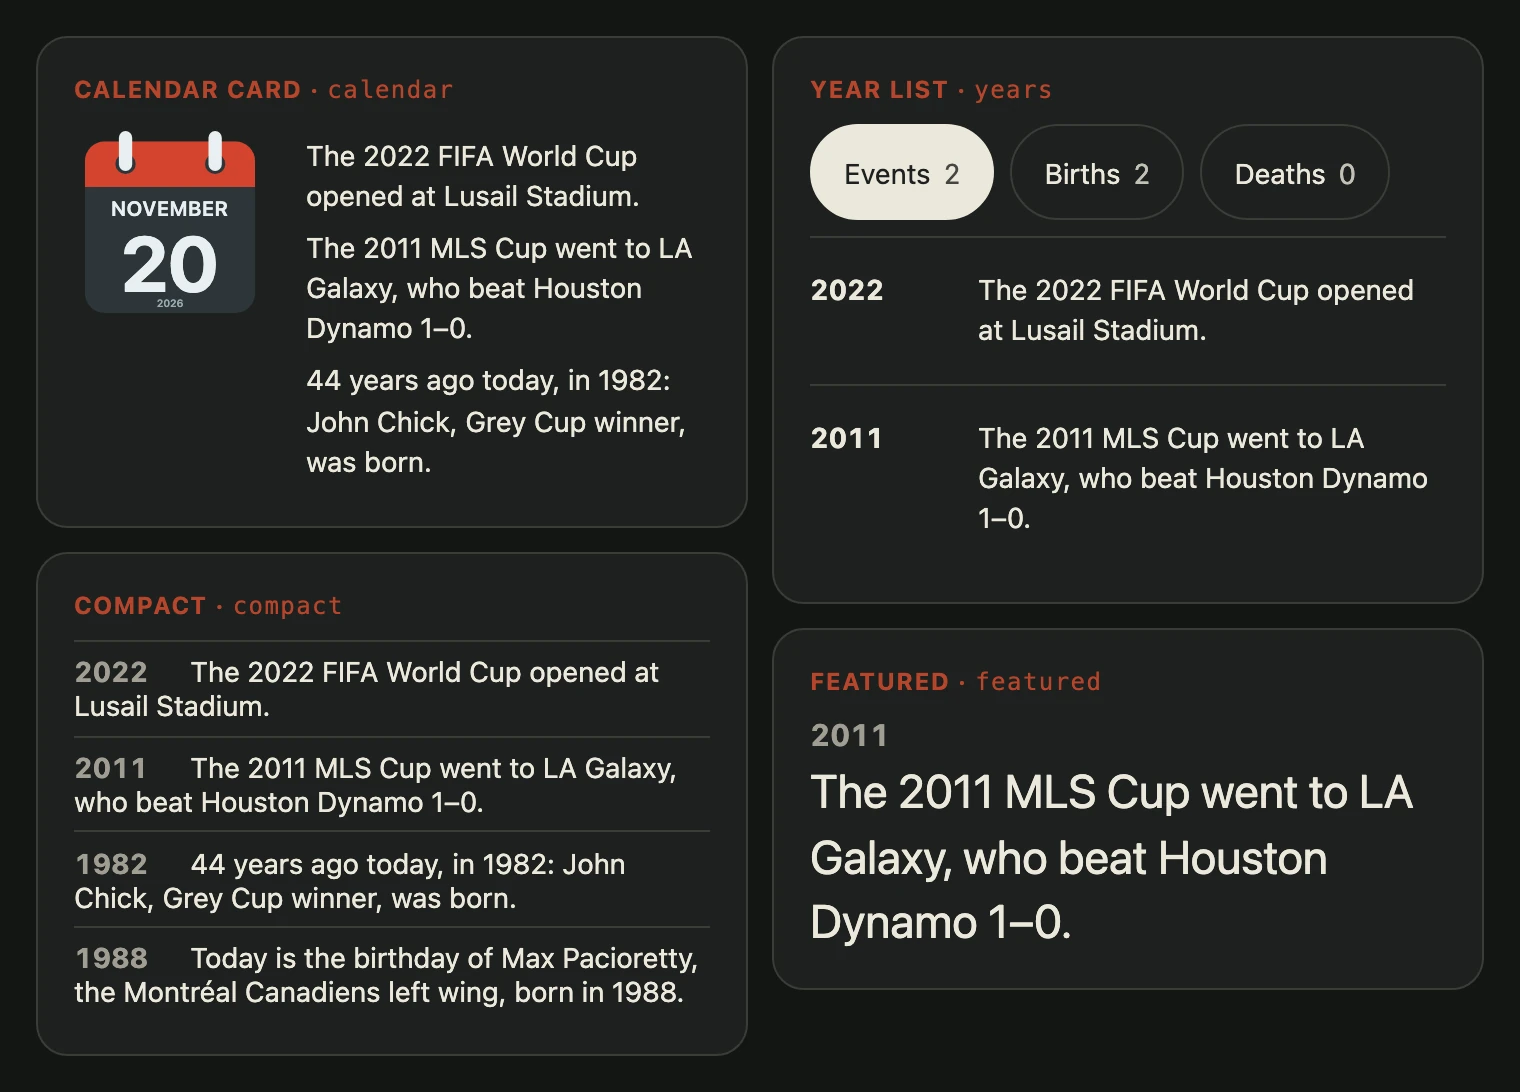
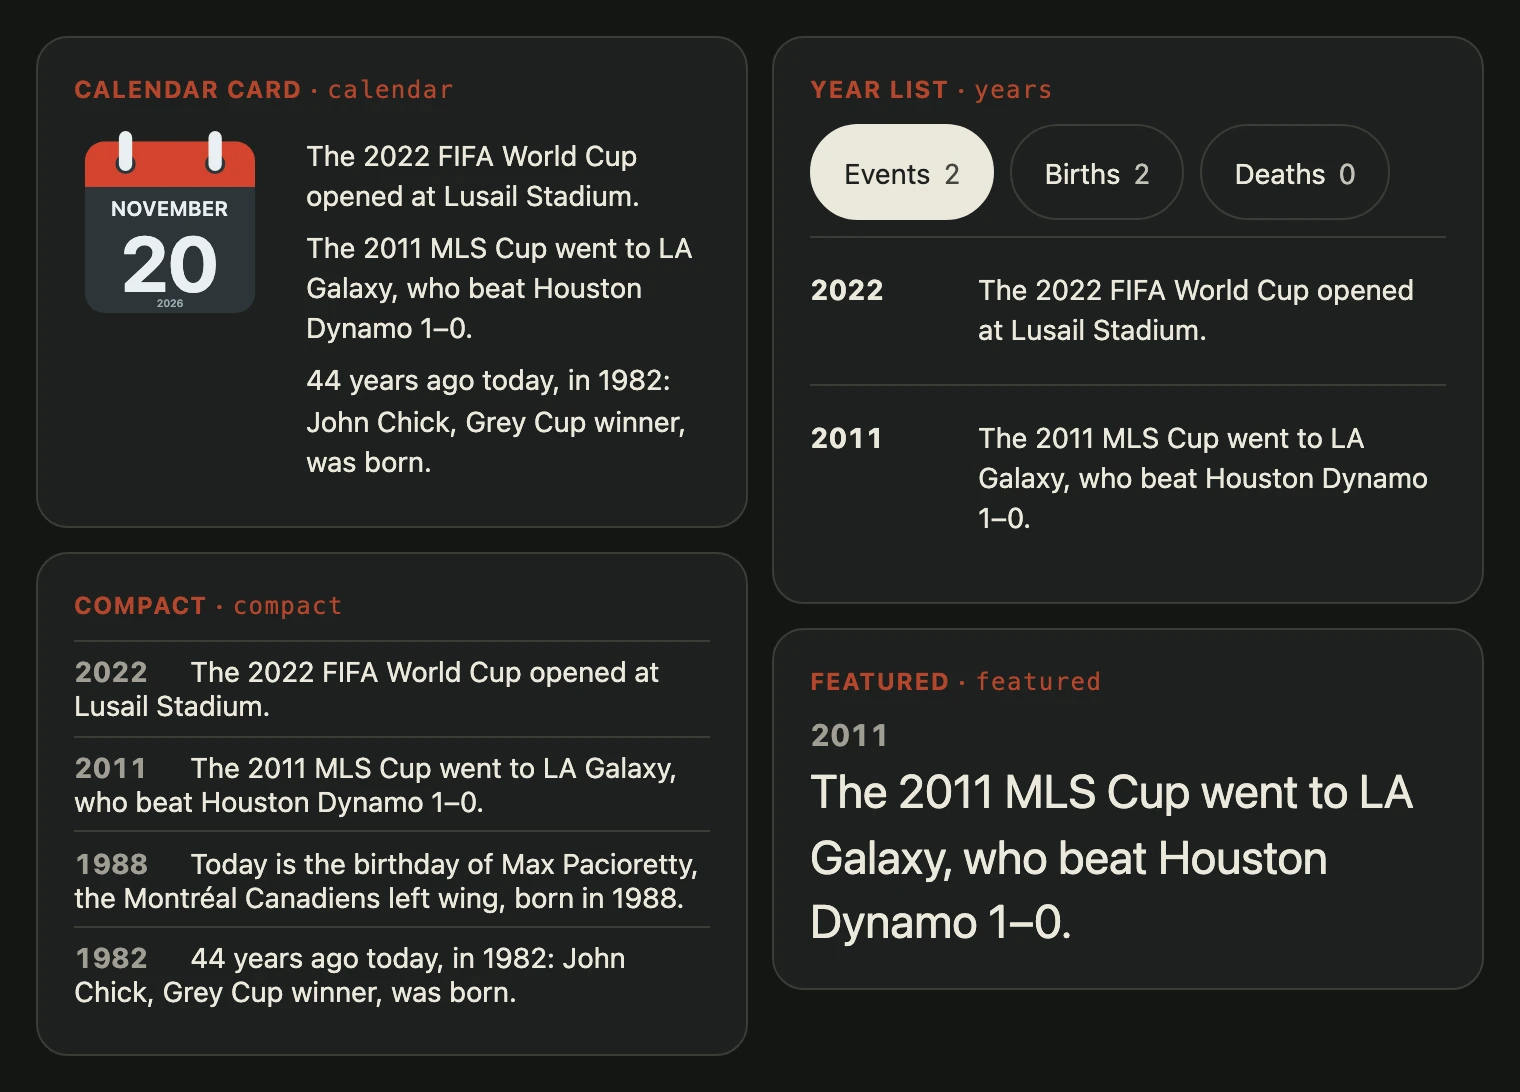
fix(display): compact list newest year first

Changed region(s): [[0.0309, 0.7784, 0.4638, 0.8407], [0.0618, 0.8718, 0.4638, 0.9341]]

diff --git a/test/display.test.ts b/test/display.test.ts
@@ -44,6 +44,20 @@ test("the year list groups by kind, newest first, with a tab per group", () => {
   assert.ok(!html.includes("<1990>"));
 });
 
+test("compact lists the facts newest first, and a fact with no year goes last", () => {
+  const mixed = [
+    { text: "no year" },
+    { text: "old", year: "1960" },
+    { text: "newest", year: "2024" },
+    { text: "middle", year: "1998" },
+  ];
+  const html = displayMarkup({ layout: "compact", items: mixed });
+  const order = ["newest", "middle", "old", "no year"].map((text) => html.indexOf(text));
+  assert.deepEqual(order, [...order].sort((a, b) => a - b));
+  assert.ok(order.every((at) => at >= 0));
+  assert.equal(mixed[0].text, "no year");
+});
+
 test("compact lists every fact and featured keeps only the first", () => {
   const compact = displayMarkup({ layout: "compact", items });
   assert.match(compact, /<ul class="meigen-layout meigen-compact">/);

diff --git a/src/display.ts b/src/display.ts
@@ -83,7 +83,7 @@ function years(items: readonly DisplayItem[], labels: DisplayLabels, name: strin
 }
 
 function compact(items: readonly DisplayItem[]): string {
-  const rows = items.map((item) => `<li><span class="meigen-year">${esc(item.year ?? "")}</span> ${esc(item.text)}</li>`).join("");
+  const rows = [...items].sort((a, b) => yearOf(b) - yearOf(a)).map((item) => `<li><span class="meigen-year">${esc(item.year ?? "")}</span> ${esc(item.text)}</li>`).join("");
   return `<ul class="meigen-layout meigen-compact">${rows}</ul>`;
 }
 

diff --git a/docs/display-layouts.md b/docs/display-layouts.md
@@ -31,7 +31,7 @@ Four ways to show facts that are already worded. `displayMarkup` returns HTML. I
 | `compact` | Compact | 短い一覧 | ![Compact](images/layout-compact.svg) |
 | `featured` | Featured | 一つを大きく | ![Featured](images/layout-featured.svg) |
 
-The year list groups facts into Events (出来事), Births (誕生) and Deaths (死去). A birthday is `player-birthday`, a death is `player-death`, and every other category is an event. Years run newest first. The featured layout keeps the first fact only.
+The year list groups facts into Events (出来事), Births (誕生) and Deaths (死去). A birthday is `player-birthday`, a death is `player-death`, and every other category is an event. Years run newest first, and the compact list is in the same order (a fact with no year goes last). The featured layout keeps the first fact only.
 
 ```js no-run
 import { calendarIcon, displayMarkup } from "@johnmorrisdotca/meigen-sports";

diff --git a/CHANGELOG.md b/CHANGELOG.md
@@ -4,6 +4,8 @@ Changes to the package are recorded here. Dates use ISO 8601.
 
 ## [Unreleased]
 
+- Fix: the compact layout lists the facts newest year first, like the year list, instead of in the order given. A fact with no year goes last. The featured layout still keeps the first fact given. `docs/display-layouts.md` says so.
+
 ## [0.14.2] - 2026-10-30
 
 - Fix: the Japanese `<title>` and `aria-label` of a calendar icon are in Japanese date order: `2026年12月31日（木曜日）` (2026, December 31, Thursday), or `12月31日` (December 31) when no year is given, on every theme, light and dark. It was `木曜日 12月 31 2026`. A weekday is still given only with a year, and the English label is unchanged. Docs: `docs/calendar-icons.md` and `docs/calendar-gallery.ja.md` show the new label.
